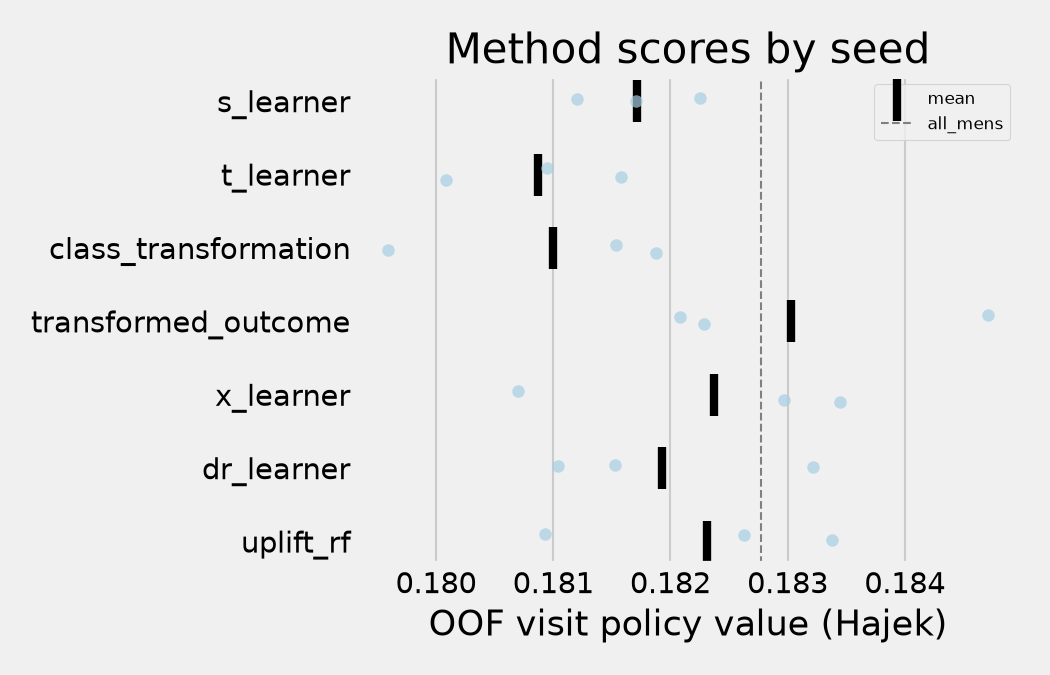
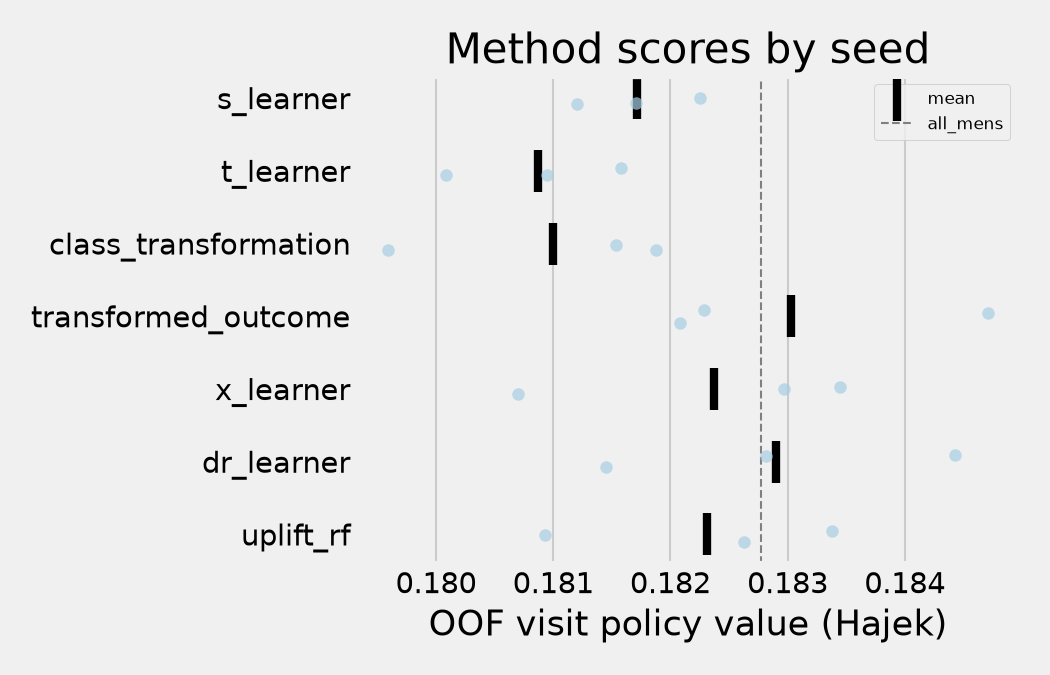
EXP-002 DR-learner를 seed 수정 코드로 다시 실행해 내보냄
DR-learner part만 Kaggle에서 다시 돌렸다(run_id 1ab62f502d80, 커밋 9b54eda).
세 seed 평균은 0.1819에서 0.1829로 바뀌었고 HPO 최선 trial과 seed 42
재측정이 같아졌다. 판정(chosen s_learner, leader transformed_outcome,
any_beats_all_mens, 쌍별 distinguishable)은 바뀌지 않았다. summary.md의
범위와 experiment.md의 설계와 달라진 점을 맞췄다.

정본 칸: 반영 없음

diff --git a/artifacts/EXP-002/summary.md b/artifacts/EXP-002/summary.md
@@ -1,20 +1,20 @@
 # EXP-002 요약: 1단계 방법론 비교
 
-실행 여덟 개(`metrics.json`의 `run_ids`, Kaggle CPU kernel). 데이터는 학습 세트 44,800명, 결과 변수는 `visit`, fold seed 42, 154, 1592의 5-fold OOF다. 방법마다 HPO trial 50회, 구간은 고객 복원 추출 부트스트랩 1,000회의 95% 구간이다.
+실행 여덟 개(`metrics.json`의 `run_ids`, Kaggle CPU kernel). 데이터는 학습 세트 44,800명, 결과 변수는 `visit`, fold seed 42, 154, 1592의 5-fold OOF다. 방법마다 HPO trial 50회, 구간은 고객 복원 추출 부트스트랩 1,000회의 95% 구간이다. DR-learner는 처음 실행에서 교차 적합 분할에 seed가 들어가지 않아 같은 설정으로 재현되지 않았고, seed를 넘기도록 고친 코드로 그 part만 다시 돌린 실행이다.
 
 ## 일곱 방법 모두 1위 transformed outcome과 가를 수 없어, 판정 규칙대로 S-learner를 고른다
 
-세 seed 평균 정책 가치는 transformed outcome 0.1830이 가장 크고 T-learner 0.1809가 가장 작다(`tables/method_scores.csv`). 1위와의 평균 차이는 0.0007\~0.0022이고, 쌍마다 문턱은 0.0038\~0.0052라 모든 쌍이 문턱 아래다(`tables/pair_thresholds.csv`). 그래서 단순한 순서의 첫 방법 S-learner(0.1817)를 고른다(`tables/method_choice.csv`).
+세 seed 평균 정책 가치는 transformed outcome 0.1830이 가장 크고 T-learner 0.1809가 가장 작다(`tables/method_scores.csv`). 1위와의 평균 차이는 0.0001\~0.0022이고, 쌍마다 문턱은 0.0038\~0.0052라 모든 쌍이 문턱 아래다(`tables/pair_thresholds.csv`). 그래서 단순한 순서의 첫 방법 S-learner(0.1817)를 고른다(`tables/method_choice.csv`).
 
 ## 어느 방법의 고른 정책도 전체 남성용 발송보다 낫다고 말할 수 없다
 
-전체 남성용 발송(all_mens)의 정책 가치는 0.1828이다(`tables/method_choice.csv`). 1위 transformed outcome의 평균만 이보다 크고, S-learner를 비롯한 여섯 방법은 평균이 더 작다(`tables/method_scores.csv`). 그래서 "모든 방법이 전체 발송보다 낮으면 고르지 않는다"는 규칙에는 걸리지 않는다.
+전체 남성용 발송(all_mens)의 정책 가치는 0.1828이다(`tables/method_choice.csv`). 1위 transformed outcome과 2위 DR-learner(0.1829)의 평균만 이보다 크고, S-learner를 비롯한 다섯 방법은 평균이 더 작다(`tables/method_scores.csv`). 그래서 "모든 방법이 전체 발송보다 낮으면 고르지 않는다"는 규칙에는 걸리지 않는다.
 
 고른 정책 − all_mens 차이는 방법 일곱과 seed 셋의 21개 점추정이 −0.0032\~0.0019다. 21개 구간 가운데 20개가 0을 포함하고, class transformation seed 1592(−0.0060\~−0.0007) 하나는 0보다 아래에 있다. 0보다 위에 있는 구간은 없다(`tables/policy_values.csv`).
 
 ## 고른 정책은 거의 모든 고객에게 메일을 보내, 방법 사이 차이는 메일 종류에서만 난다
 
-고른 정책의 발송 수는 seed와 방법에 따라 44,708\~44,800명이고, S-learner, transformed outcome, uplift random forest는 세 seed 모두 44,800명 전원에게 보낸다(`tables/policy_values.csv`). 고른 정책은 메일별 uplift 가운데 큰 값이 0보다 크면 보내므로, 어느 방법에서든 예측 uplift가 0보다 큰 고객이 거의 전부다.
+고른 정책의 발송 수는 seed와 방법에 따라 44,745\~44,800명이고, S-learner, transformed outcome, uplift random forest는 세 seed 모두 44,800명 전원에게 보낸다(`tables/policy_values.csv`). 고른 정책은 메일별 uplift 가운데 큰 값이 0보다 크면 보내므로, 어느 방법에서든 예측 uplift가 0보다 큰 고객이 거의 전부다.
 
 ## 같은 발송 수의 반응 모델 정책과도 가를 수 없다
 

diff --git a/experiments/EXP-002-method-compare/experiment.md b/experiments/EXP-002-method-compare/experiment.md
@@ -45,5 +45,5 @@
 ## 결과 해석
 
 - 판정: 일곱 방법 모두 1위 transformed outcome과 가를 수 없어, 단순한 순서의 첫 방법 S-learner를 고른다(`artifacts/EXP-002/tables/pair_thresholds.csv`, `method_choice.csv`). 1위의 평균 점수가 전체 발송 정책보다 커서 "고르지 않는다" 규칙에는 걸리지 않는다. 고른 S-learner의 평균은 전체 발송 정책보다 작고, 차이 구간은 세 seed 모두 0을 포함한다(`policy_values.csv`).
-- 설계와 달라진 점: 없다.
+- 설계와 달라진 점: DR-learner는 처음 실행에서 causalml `BaseDRLearner.fit`에 seed가 넘어가지 않아 교차 적합 분할이 실행마다 바뀌었고, HPO 최선 trial(0.1827)과 같은 설정의 seed 42 재측정(0.1810)이 달랐다. `learners._dr`로 seed를 넘기게 고친 뒤 그 part만 다시 돌렸고, 판정은 바뀌지 않았다.
 - 반영한 결정: 1단계 방법론을 S-learner로 정했다(사용자 승인 2026-11-26). 2단계 전에 예산 제약에서 반응 모델과 비교한다(ANA-004).
